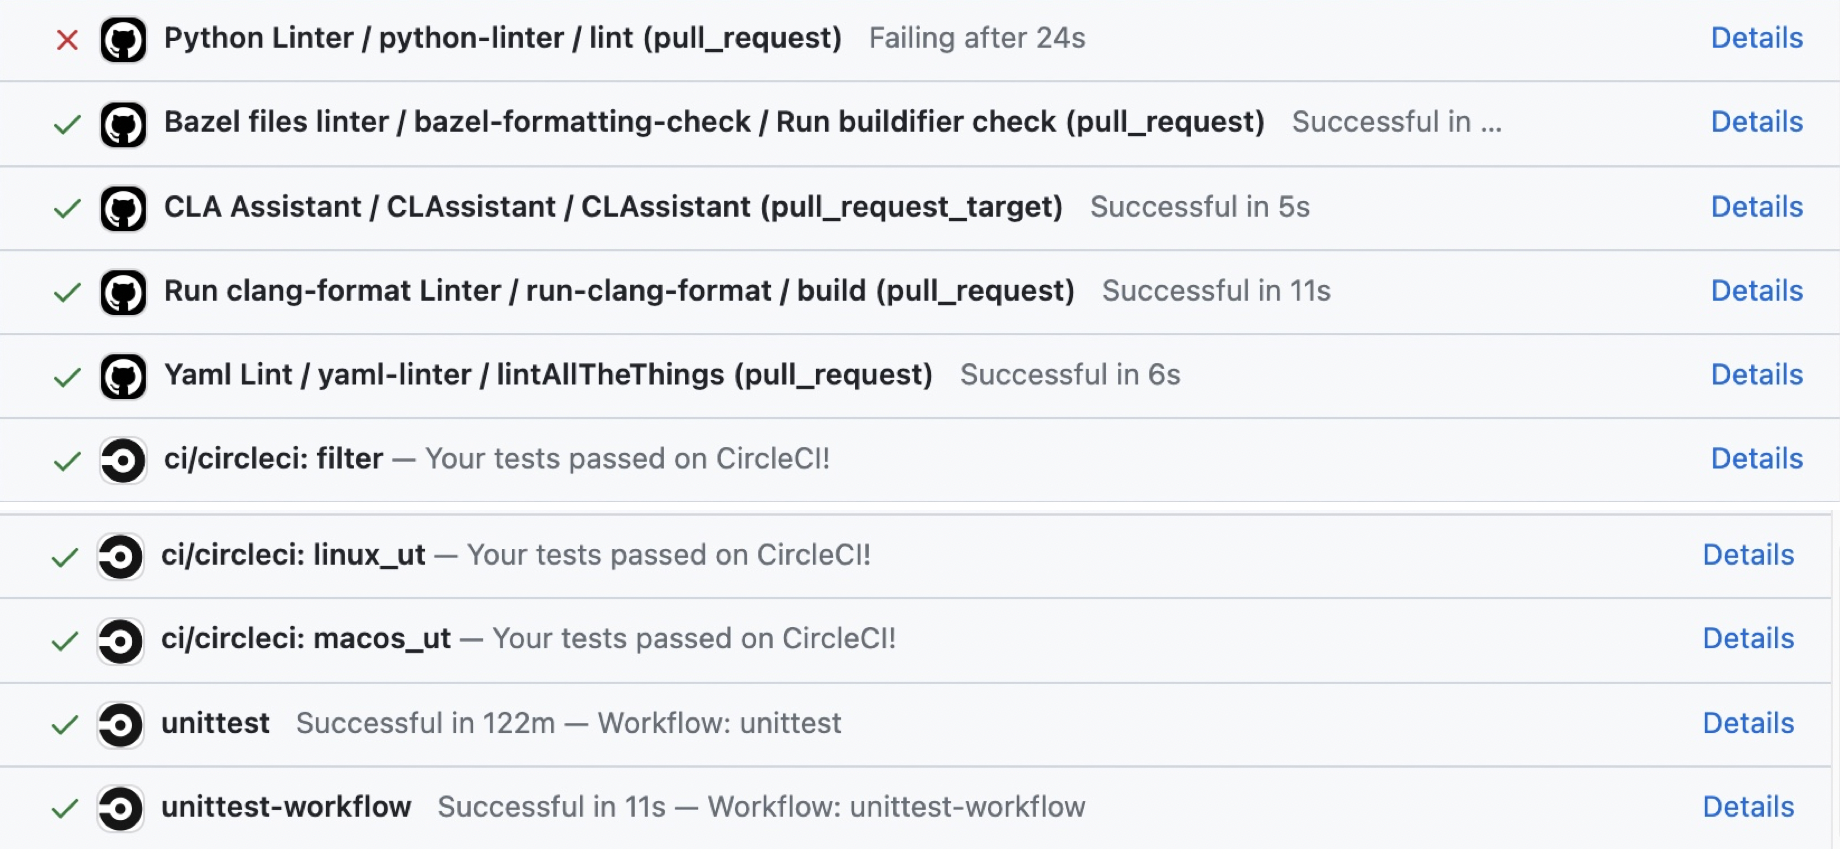
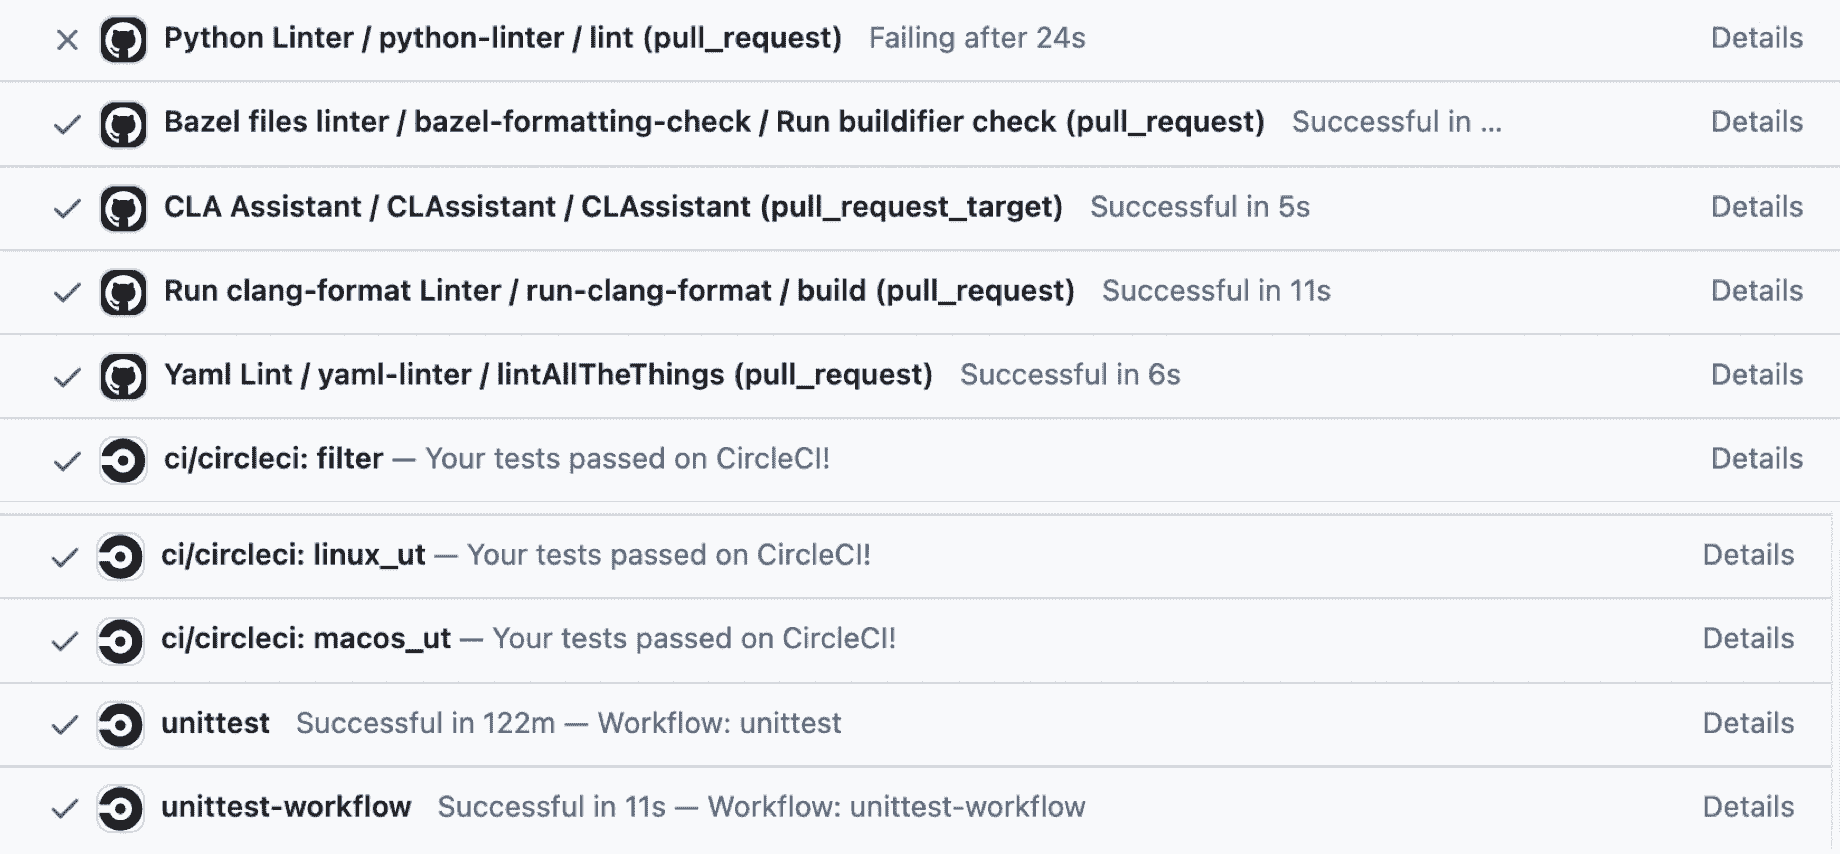
shrink image size

diff --git a/CONTRIBUTING.md b/CONTRIBUTING.md
@@ -57,7 +57,7 @@ I have read the CLA Document and I hereby sign the CLA
 - [Format_in_VSCode](https://code.visualstudio.com/docs/python/formatting): 在IDE中配置正确的格式化插件可以提高开发效率。
 ![alt text](./resources/formater-1.png)
 
-![alt text](./resources/formater-2.png)
+![alt text](./resources/formater-2.jpg)
 
 **格式化Lint报错**
 可以点击旁边的`Detail`查看具体的报错信息，可以根据报错信息进行代码格式调整。  
